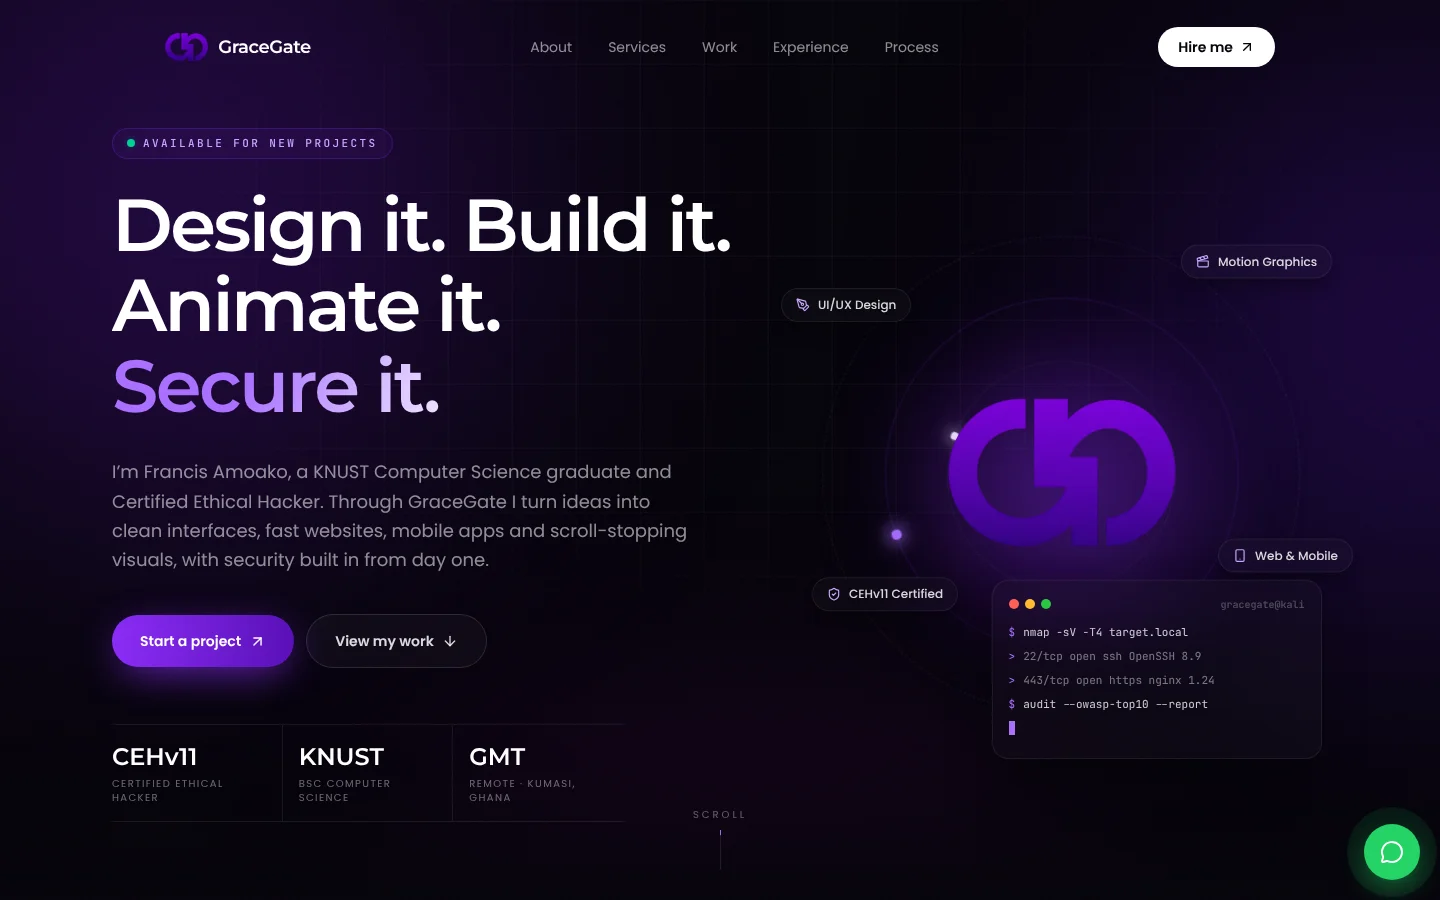
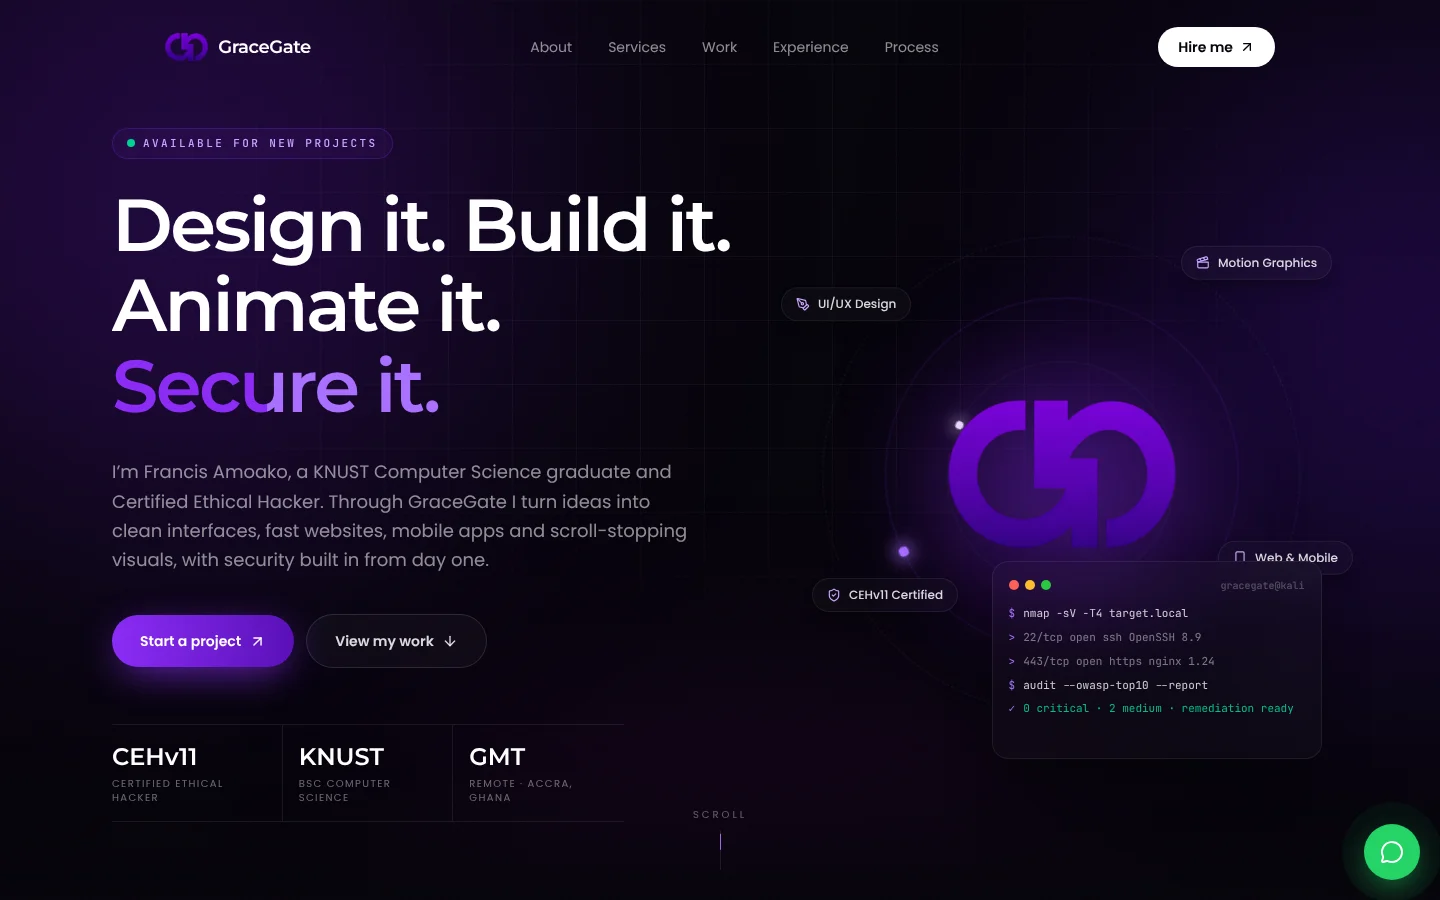
Change location to Accra, Ghana

diff --git a/lib/data.ts b/lib/data.ts
@@ -23,7 +23,7 @@ export const CONTACT = {
   /** tel: link used by every call button */
   phoneHref: 'tel:+233554057773',
   whatsapp: 'https://wa.me/233554057773',
-  location: 'Kumasi, Ghana',
+  location: 'Accra, Ghana',
   timezone: 'Remote (GMT)',
 };
 
@@ -60,7 +60,7 @@ export const HERO_DATA = {
 export const METRICS_DATA: MetricItem[] = [
   { value: 'CEHv11', label: 'Certified ethical hacker' },
   { value: 'KNUST', label: 'BSc Computer Science' },
-  { value: 'GMT', label: 'Remote · Kumasi, Ghana' },
+  { value: 'GMT', label: 'Remote · Accra, Ghana' },
 ];
 
 export const TRUSTED_BRANDS = [
@@ -234,7 +234,7 @@ export const WHY_CHOOSE_DATA: WhyChooseItem[] = [
   {
     iconName: 'CheckCircle',
     title: 'Reliable and remote-ready',
-    description: 'Fast turnaround and comfortable working remotely across time zones from Kumasi, Ghana (GMT).',
+    description: 'Fast turnaround and comfortable working remotely across time zones from Accra, Ghana (GMT).',
   },
 ];
 

diff --git a/components/showcase/FactCards.tsx b/components/showcase/FactCards.tsx
@@ -141,7 +141,7 @@ function RippleCard() {
           <p className="mt-1 font-mono text-xs text-white/45">Next.js · React · Figma</p>
         </div>
         <p className="col-span-2 self-end font-display text-lg font-semibold text-white">
-          Location: <span className="font-sans text-sm font-normal text-white/50">Kumasi, Ghana · Remote</span>
+          Location: <span className="font-sans text-sm font-normal text-white/50">Accra, Ghana · Remote</span>
         </p>
       </div>
     </div>

diff --git a/app/layout.tsx b/app/layout.tsx
@@ -33,7 +33,7 @@ export const metadata: Metadata = {
     'CEH',
     'vulnerability assessment',
     'web development',
-    'Kumasi',
+    'Accra',
     'Ghana',
   ],
   openGraph: {
